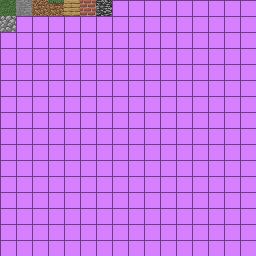
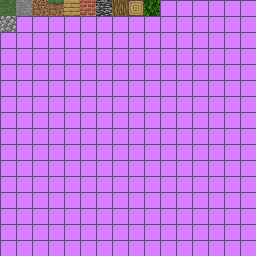
Add log and leaf blocks and add new transparent and multi-texture tile types

Changed region(s): [[0.4375, 0.0, 0.625, 0.0625]]

diff --git a/src/com/mojang/rubydung/level/tile/Tile.java b/src/com/mojang/rubydung/level/tile/Tile.java
@@ -17,10 +17,13 @@ public class Tile {
 	public static final Tile rock = new Tile(1, 1);
 	public static final Tile grass = new GrassTile(2);
 	public static final Tile dirt = new Tile(3, 2);
-	public static final Tile stoneBrick = new Tile(4, 16);
+	public static final Tile cobble = new Tile(4, 16);
 	public static final Tile wood = new Tile(5, 4);
 	public static final Tile bricks = new Tile(6, 5);
 	public static final Tile bedrock = new UnbreakableTile(7, 6);
+	public static final Tile log = new MultiTile(8, 8, 8, 7, 7, 7, 7);
+	public static final Tile leaves = new TransparentTile(9, 9);
+
 	public int tex;
 	public final int id;
 

diff --git a/src/com/mojang/rubydung/level/tile/MultiTile.java b/src/com/mojang/rubydung/level/tile/MultiTile.java
@@ -1,0 +1,22 @@
+package com.mojang.rubydung.level.tile;
+
+import com.mojang.rubydung.level.tile.Tile;
+
+public class MultiTile extends Tile {
+	private int[] texs = new int[6];
+
+	protected MultiTile(int id, int t0, int t1, int t2, int t3, int t4, int t5) {
+		super(id);
+		this.tex = t0;
+		this.texs[0] = t0;
+		this.texs[1] = t1;
+		this.texs[2] = t2;
+		this.texs[3] = t3;
+		this.texs[4] = t4;
+		this.texs[5] = t5;
+	}
+
+	@Override protected int getTexture(int face) {
+		return this.texs[face];
+	}
+}

diff --git a/src/com/mojang/rubydung/RubyDung.java b/src/com/mojang/rubydung/RubyDung.java
@@ -59,7 +59,7 @@ implements Runnable {
 	private HitResult hitResult = null;
 	FloatBuffer lb = BufferUtils.createFloatBuffer((int)16);
 	private int active_texture = 0;
-	private int[] textures = {1, 3, 4, 5, 6};
+	private int[] textures = {1, 3, 4, 5, 6, 8, 9};
 	private boolean paused = true;
 	private int last_fps = 0;
 

diff --git a/src/com/mojang/rubydung/level/tile/TransparentTile.java b/src/com/mojang/rubydung/level/tile/TransparentTile.java
@@ -1,0 +1,13 @@
+package com.mojang.rubydung.level.tile;
+
+import com.mojang.rubydung.level.Level;
+
+public class TransparentTile extends Tile {
+	protected TransparentTile(int id, int tex) {
+		super(id, tex);
+	}
+
+	@Override public boolean blocksLight() {
+		return false;
+	}
+}
